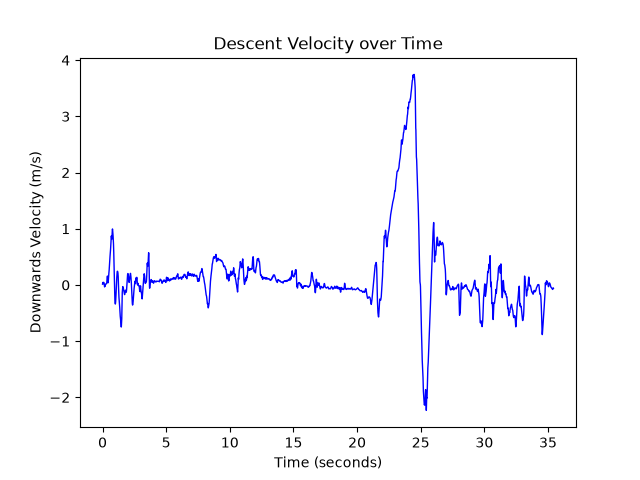
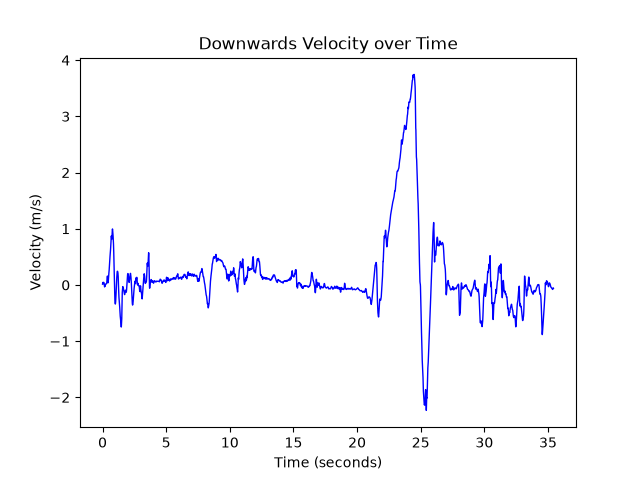
Rectify README and direction information

Changed region(s): [[0.3125, 0.0625, 0.7188, 0.125], [0.0312, 0.3125, 0.0625, 0.6875]]

diff --git a/src/main.py b/src/main.py
@@ -51,8 +51,8 @@ def graph(vt):
     velocity, time = vt
     plt.plot(time, velocity, label="Velocity", color="blue", linewidth=1)
     plt.xlabel("Time (seconds)")
-    plt.ylabel("Downwards Velocity (m/s)")
-    plt.title("Descent Velocity over Time")
+    plt.ylabel("Velocity (m/s)")
+    plt.title("Downwards Velocity over Time")
     plt.savefig(PATH + "out/run-" + OBJECT + str(RUN))
     plt.show()
 

diff --git a/README.md b/README.md
@@ -5,8 +5,8 @@ is relative to the device's starting rotation.
 
 
 From derived velocity, motion during the descent can be identified and compared. The method utilized to derive a clean
-acceleration sample, is the taking of the mid-section of velocity ramp, and calculating the slope, deriving
-acceleration.
+acceleration sample, is the taking of the mid-section of the velocity graph where the object is descending the slope,
+and calculating the gradient, deriving acceleration.
 
 ## Structure
 `data/` contains the raw sensor data of all of the trials for Object A and Object B.  
